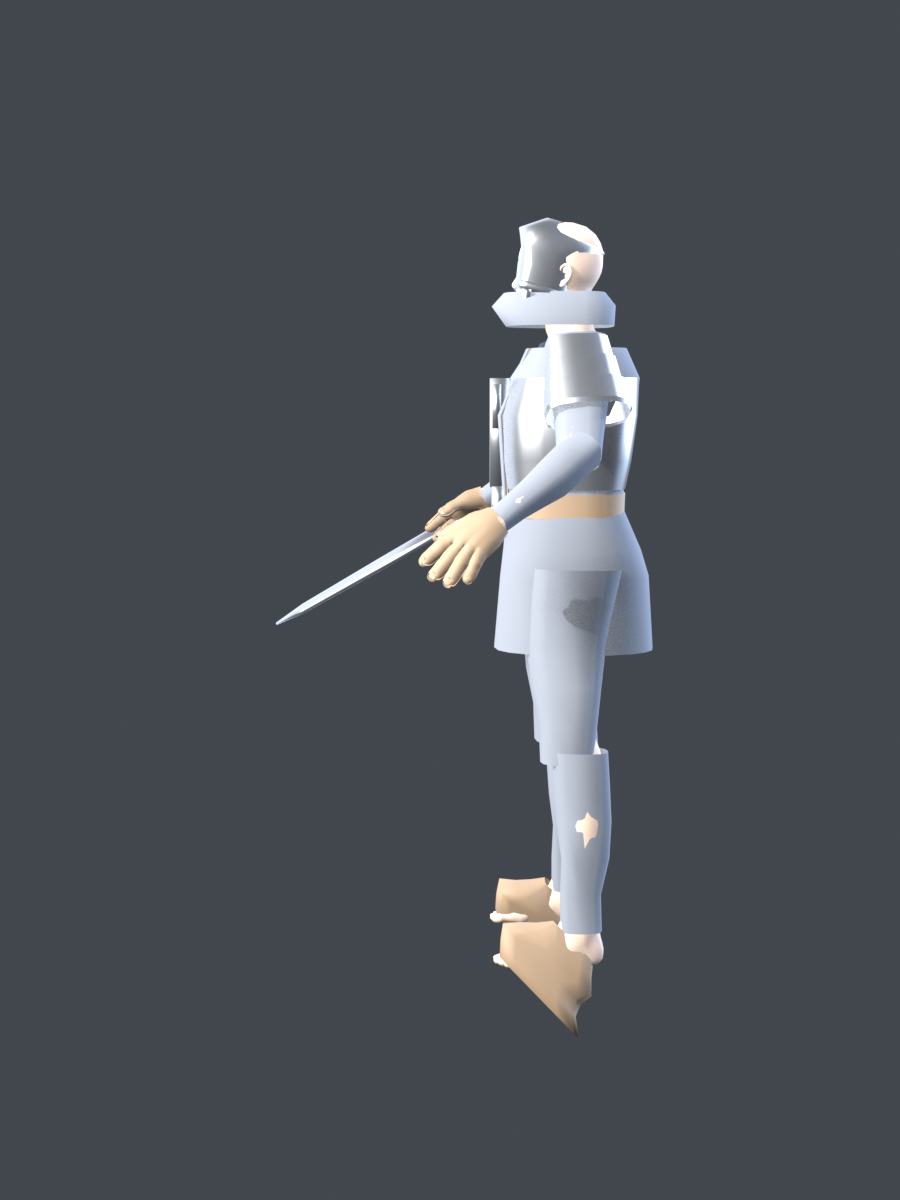
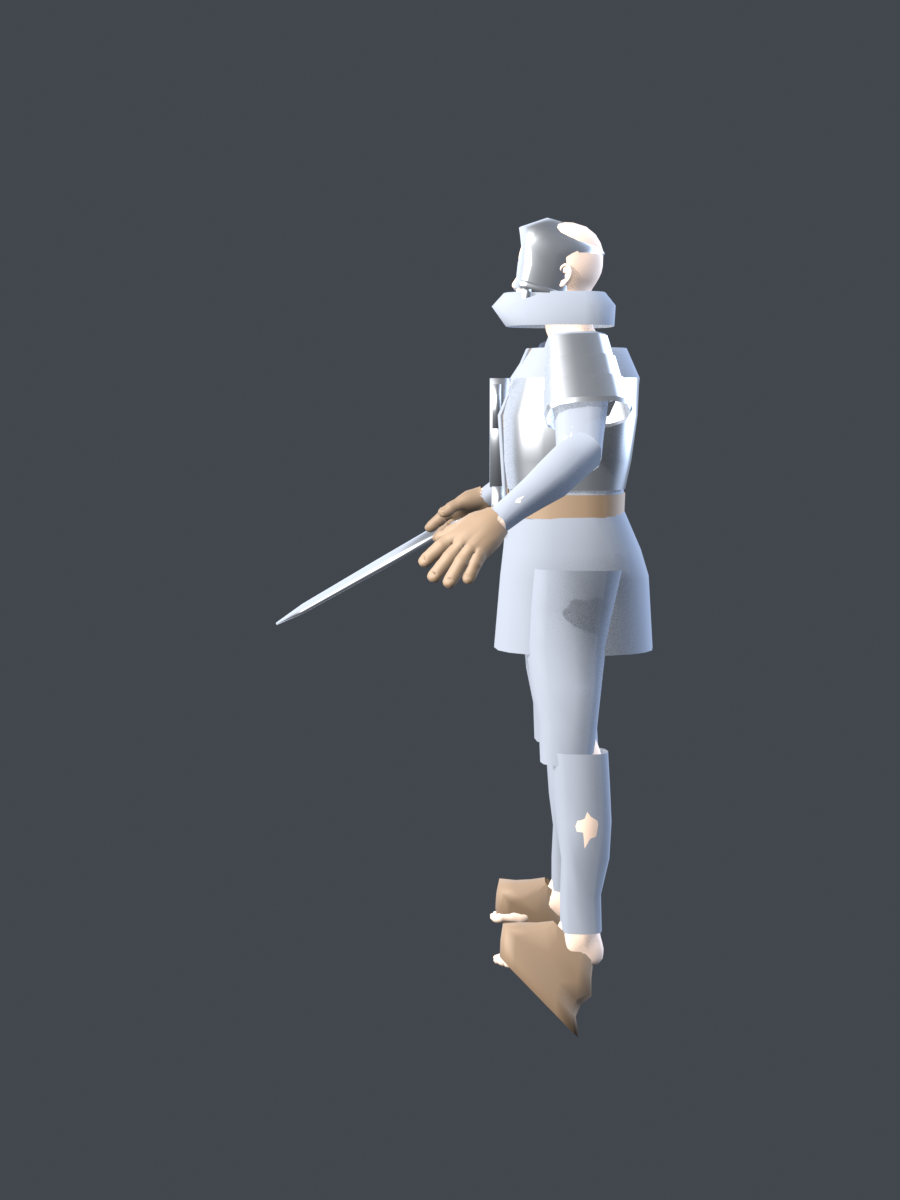
art(hero): prove the glove geometry, and correct my last report
My previous report said the glove was not covering the hand. That was
wrong, and the diagnostic you asked for is what showed it.

Two real bugs fixed first, both of which would have made any conclusion
about the sign meaningless:

- The offset used `vert.normal` read from the bmesh AFTER deleting faces.
  Deleting changes which faces meet at a vertex, so along the cut edge the
  recomputed normal is not the body's surface normal and can point inward.
  Every glove vertex is now placed from the BODY's own co and normal.
- `source_of[vert.index] = vert.index` was not a mapping. bmesh reindexes
  after a delete, so it stopped meaning what it said exactly when it
  mattered. The original body index is now carried across the delete in a
  bmesh int layer.

The numeric check you specified, rather than guessing from a render:

    median signedOffset = 0.00752   thickness = 0.00752
    outward = true                  matchesThickness = true

So the shell sits exactly one thickness OUTSIDE the hand. The magenta
glove-only render confirms it directly: both gloves are present and cover
the hands completely, five separate fingers each. The geometry was never
the problem.

What is actually wrong is the material. The shell is copied from the body,
so it inherits the body's material SLOTS and every polygon still points at
slot 0 -- the skin. Appending leather merely added an unused slot 1, and a
fully-covered hand rendered as a bare one. That is what I misread as "not
covering".
[…]

Changed region(s): [[0.5289, 0.7092, 0.6533, 0.8633], [0.4667, 0.4008, 0.56, 0.4933], [0.5911, 0.4008, 0.6844, 0.4317]]

diff --git a/scripts/blender/hero_outfit.py b/scripts/blender/hero_outfit.py
@@ -491,37 +491,45 @@ def build_sword(body, armature, height):
     return b, "hand_r"
 
 
-def build_glove(body, armature, side, thickness_ratio=0.16):
-    """A glove made from the hand's own surface, offset along its normals.
+def build_glove(body, armature, side, thickness_ratio=0.16, diagnostic=False):
+    """A glove made from the hand's own surface, offset along body normals.
 
-    A swept tube cannot have five fingers. Every previous attempt profiled the
-    hand as a cylinder and produced either a mitten or a cuff with bare
-    fingers poking out of the open end -- the hand bone is 45 mm long, so
-    there is nothing there to sweep along.
+    A swept tube cannot have five fingers, and the hand bone is 45 mm long so
+    there is nothing to sweep along. The glove is therefore the hand: the
+    faces the hand and finger bones dominate, duplicated and pushed out.
 
-    So the glove is the hand: the faces the hand and finger bones dominate are
-    duplicated, pushed out along their vertex normals by a fraction of the
-    hand's own width, and skinned with the weights they already had. The five
-    fingers stay five fingers, and each one follows its own bone chain because
-    the weights came from the vertices underneath it.
+    Two things the first version got wrong, and both are the reason it did not
+    cover anything:
+
+    - It offset along `vert.normal` read from the bmesh *after* deleting
+      faces. Deleting changes which faces meet at a vertex, so the recomputed
+      normal on a boundary is not the body's surface normal there; along the
+      cut edge it can point almost anywhere, including inward.
+    - It kept `source_of[vert.index] = vert.index`, which is not a mapping at
+      all: bmesh reindexes after a delete, so the value stops meaning what it
+      says the moment it matters.
+
+    The original body index is now carried across the delete in a bmesh int
+    layer, and every glove vertex is placed from the *body's* own co and
+    normal. `sign_check` in the returned record measures the result rather
+    than trusting it.
     """
     digits = [f"{d}_{j:02d}_{side}" for d in
               ("thumb", "index", "middle", "ring", "pinky") for j in (1, 2, 3)]
     wanted = [f"hand_{side}"] + digits
     ids = {g.index for g in body.vertex_groups if g.name in wanted}
     if not ids:
-        return None
+        return None, {"reason": "no hand or finger vertex groups"}
 
     owned = set()
     for vertex in body.data.vertices:
         if sum(g.weight for g in vertex.groups if g.group in ids) >= 0.5:
             owned.add(vertex.index)
     if len(owned) < 40:
-        return None
+        return None, {"reason": "hand region has %d vertices" % len(owned)}
 
-    # Scale the shell thickness to the hand, so a smaller female hand gets a
-    # proportionally thinner glove rather than a fixed padding.
-    points = [body.matrix_world @ body.data.vertices[i].co for i in owned]
+    body.data.calc_normals_split() if hasattr(body.data, "calc_normals_split") else None
+    points = [body.data.vertices[i].co for i in owned]
     extent = max(
         max(p.x for p in points) - min(p.x for p in points),
         max(p.y for p in points) - min(p.y for p in points),
@@ -531,20 +539,25 @@ def build_glove(body, armature, side, thickness_ratio=0.16):
     mesh = bmesh.new()
     mesh.from_mesh(body.data)
     mesh.verts.ensure_lookup_table()
+    # Carry the ORIGINAL index across the delete. bmesh reindexes afterwards,
+    # so anything derived from vert.index later is a different number.
+    layer = mesh.verts.layers.int.new("body_index")
+    for vert in mesh.verts:
+        vert[layer] = vert.index
+
     doomed = [f for f in mesh.faces if not all(v.index in owned for v in f.verts)]
     bmesh.ops.delete(mesh, geom=doomed, context="FACES")
     bmesh.ops.delete(mesh, geom=[v for v in mesh.verts if not v.link_faces], context="VERTS")
     if not mesh.faces:
         mesh.free()
-        return None
-    mesh.normal_update()
-    # Remember which body vertex each shell vertex came from, so the weights
-    # can be carried across exactly rather than guessed by proximity.
-    source_of = {}
+        return None, {"reason": "no faces survived the hand selection"}
+
+    signed = []
     for vert in mesh.verts:
-        source_of[vert.index] = vert.index
-    for vert in mesh.verts:
-        vert.co = vert.co + vert.normal * thickness
+        source = body.data.vertices[vert[layer]]
+        target = source.co + source.normal * thickness
+        signed.append((target - source.co).dot(source.normal))
+        vert.co = target
 
     data = bpy.data.meshes.new(f"HeroGlove_{side}")
     mesh.to_mesh(data)
@@ -552,10 +565,44 @@ def build_glove(body, armature, side, thickness_ratio=0.16):
     for polygon in data.polygons:
         polygon.use_smooth = True
 
+    # The shell is copied from the body, so it inherits the body's material
+    # SLOTS and every polygon still points at slot 0 -- the skin. Appending a
+    # leather material merely added an unused slot 1, and the glove rendered
+    # as a bare hand while being geometrically present. The magenta diagnostic
+    # is what separated "not there" from "there, wearing skin".
+    data.materials.clear()
+    for polygon in data.polygons:
+        polygon.material_index = 0
+
     obj = bpy.data.objects.new(f"HeroGlove_{side}", data)
     bpy.context.collection.objects.link(obj)
     obj.matrix_world = body.matrix_world.copy()
-    return obj
+
+    signed.sort()
+    median = signed[len(signed) // 2] if signed else 0.0
+    record = {
+        "side": side,
+        "sourceVertices": len(owned),
+        "shellVertices": len(data.vertices),
+        "thickness": round(thickness, 5),
+        "medianSignedOffset": round(median, 5),
+        # Outward and about one thickness is the whole claim; anything else
+        # means the shell is inside the hand and the render would be a lie
+        # either way.
+        "outward": median > 0,
+        "matchesThickness": abs(median - thickness) < thickness * 0.05,
+    }
+    if diagnostic:
+        material = bpy.data.materials.new(f"GLOVE_DIAGNOSTIC_{side}")
+        material.use_nodes = True
+        bsdf = material.node_tree.nodes.get("Principled BSDF")
+        if bsdf:
+            bsdf.inputs["Base Color"].default_value = (1.0, 0.0, 0.85, 1.0)
+            if "Emission Color" in bsdf.inputs:
+                bsdf.inputs["Emission Color"].default_value = (1.0, 0.0, 0.85, 1.0)
+                bsdf.inputs["Emission Strength"].default_value = 3.0
+        data.materials.append(material)
+    return obj, record
 
 
 def to_object(builder, name, materials):
@@ -711,7 +758,7 @@ def main():
     materials = {}
     for name, base, rough, metal in (
         ("cloth", (0.243, 0.271, 0.325), 0.92, 0.0),
-        ("leather", (0.372, 0.263, 0.171), 0.62, 0.04),
+        ("leather", (0.243, 0.166, 0.106), 0.58, 0.04),
         ("metal", (0.430, 0.455, 0.492), 0.34, 0.85),
     ):
         mat = bpy.data.materials.new("Hero_" + name)
@@ -729,14 +776,23 @@ def main():
     transfer_weights(outfit, body, armature)
 
     gloves = []
+    glove_checks = []
+    diagnostic = os.environ.get("HERO_GLOVE_DIAGNOSTIC") == "1"
     for side in ("l", "r"):
-        glove = build_glove(body, armature, side)
+        glove, check = build_glove(body, armature, side, diagnostic=diagnostic)
+        glove_checks.append(check)
         if glove is not None:
             # `to_object` is not used: this is a duplicated surface, not a
             # lofted builder, so it already carries its own topology.
-            glove.data.materials.append(materials["leather"])
+            if not diagnostic:
+                glove.data.materials.append(materials["leather"])
             transfer_weights(glove, body, armature)
             gloves.append(glove)
+    # Hiding the body isolates the shell, so "the glove is invisible" and "the
+    # glove is inside the hand" stop looking identical.
+    if diagnostic and os.environ.get("HERO_GLOVE_ONLY") == "1":
+        body.hide_render = True
+        body.hide_viewport = True
 
     sword_builder, sword_bone = build_sword(body, armature, height)
     sword = None
@@ -783,6 +839,7 @@ def main():
                           + (triangles(sword) if sword else 0)),
         },
         "materials": sorted(materials),
+        "gloveChecks": glove_checks,
         "swordBone": sword_bone,
     }
     with open(os.path.join(OUT, "%s.json" % args.name), "w", encoding="utf-8") as handle:
